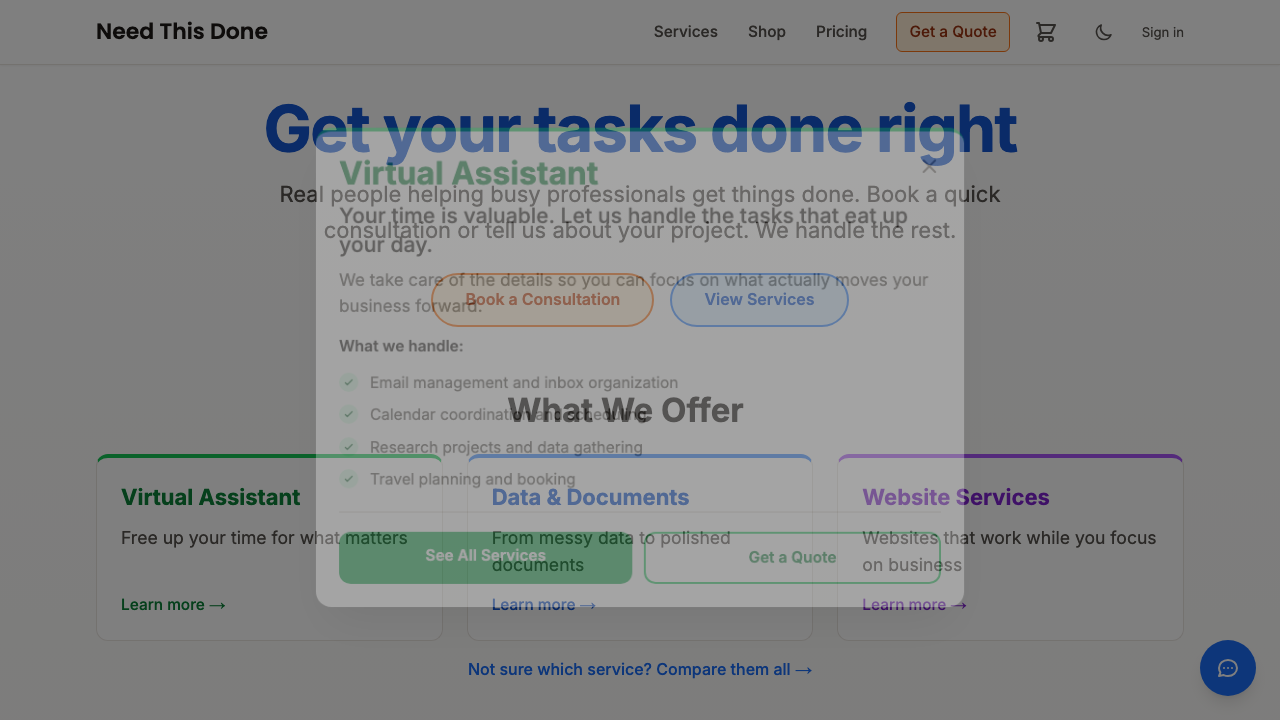
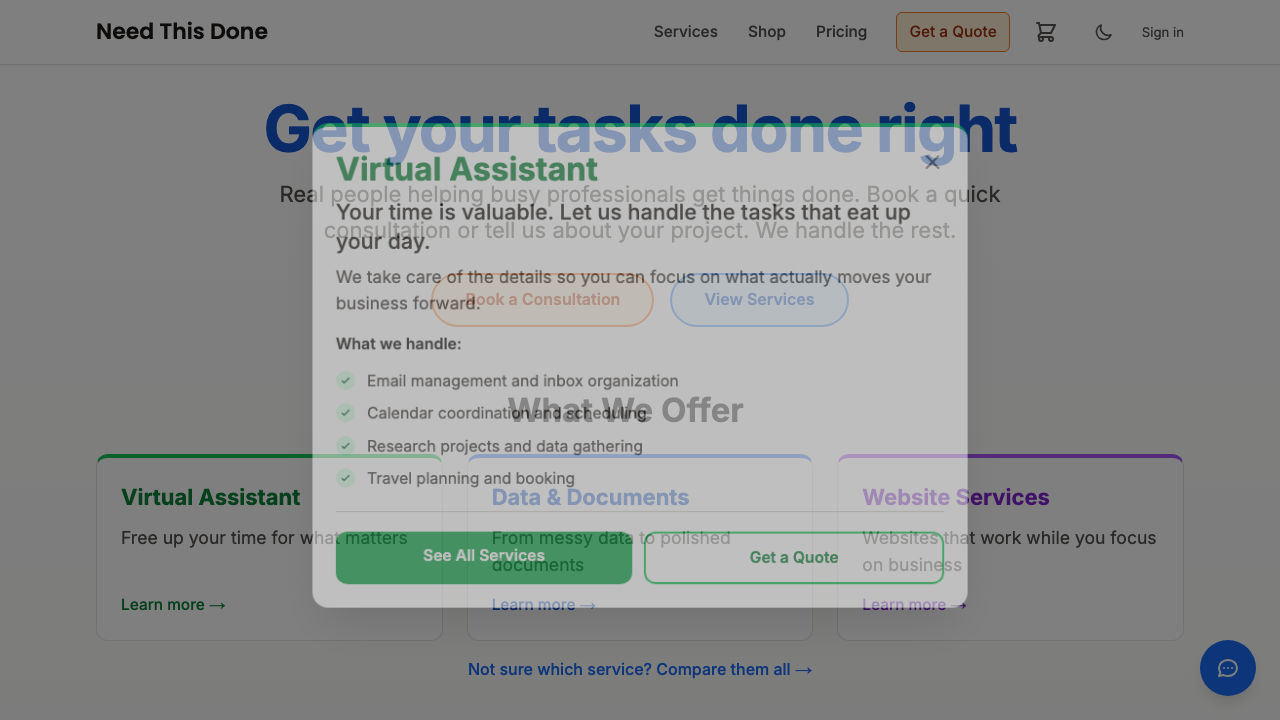
Add environment verification for production deploys
This adds a verification command that checks if critical environment
variables are properly loaded in Docker containers after deployment.
It solves the problem where env vars would disappear after container
restarts in production.

- New verify-env command checks JWT_SECRET, COOKIE_SECRET, and Supabase keys
- Fixed Medusa container to properly load .env.local with env_file directive
- Provides clear error messages with fix instructions when vars are missing
- Updated help documentation with production examples

This catches environment variable issues immediately after deployment and
prevents the "restart causes vars to disappear" problem from happening
again, saving debugging time and ensuring production stays stable.

diff --git a/app/e2e/appointments.spec.ts b/app/e2e/appointments.spec.ts
@@ -16,7 +16,7 @@ test.describe('Appointment Request Form', () => {
     await navigateToPage(page, '/shop');
 
     // Wait for products to load (client-side rendering)
-    await expect(page.getByRole('heading', { name: /shop/i })).toBeVisible({ timeout: 10000 });
+    await expect(page.getByRole('heading', { name: /Quick Consultations/i })).toBeVisible({ timeout: 10000 });
 
     // Click on the first consultation product (15-min)
     await page.getByRole('link', { name: /details/i }).first().click();
@@ -219,7 +219,7 @@ test.describe('Appointment Request Form UI', () => {
     await navigateToPage(page, '/shop');
 
     // Verify shop loads (foundation for appointment flow)
-    await expect(page.getByRole('heading', { name: /shop/i })).toBeVisible({ timeout: 10000 });
+    await expect(page.getByRole('heading', { name: /Quick Consultations/i })).toBeVisible({ timeout: 10000 });
 
     // Wait for products to load (client-side rendering from API)
     // Products may take time to load from Medusa backend
@@ -239,7 +239,7 @@ test.describe('Appointment Request Form UI', () => {
     await navigateToPage(page, '/shop');
 
     // Wait for shop to load
-    await expect(page.getByRole('heading', { name: /shop/i })).toBeVisible({ timeout: 10000 });
+    await expect(page.getByRole('heading', { name: /Quick Consultations/i })).toBeVisible({ timeout: 10000 });
 
     // Wait for products to load
     await page.waitForTimeout(2000);
@@ -292,7 +292,7 @@ test.describe('Appointment Flow Integration', () => {
   }) => {
     // Navigate to shop and wait for products to load
     await navigateToPage(page, '/shop');
-    await expect(page.getByRole('heading', { name: /shop/i })).toBeVisible({ timeout: 10000 });
+    await expect(page.getByRole('heading', { name: /Quick Consultations/i })).toBeVisible({ timeout: 10000 });
 
     // Navigate to first consultation product
     await page.getByRole('link', { name: /details/i }).first().click();
@@ -316,7 +316,7 @@ test.describe('Appointment Flow Integration', () => {
   test('complete checkout flow shows appointment form', async ({ page }) => {
     // Add consultation product to cart
     await navigateToPage(page, '/shop');
-    await expect(page.getByRole('heading', { name: /shop/i })).toBeVisible({ timeout: 10000 });
+    await expect(page.getByRole('heading', { name: /Quick Consultations/i })).toBeVisible({ timeout: 10000 });
 
     await page.getByRole('link', { name: /details/i }).first().click();
     await page.waitForURL(/\/shop\/.+/, { timeout: 10000 });

diff --git a/app/components/service-modal/ServiceDetailModal.tsx b/app/components/service-modal/ServiceDetailModal.tsx
@@ -145,13 +145,13 @@ export default function ServiceDetailModal() {
               </h3>
               <ul className="space-y-2">
                 {activeService.bulletPoints.map((point, index) => (
-                  <li key={index} className="flex items-start gap-3">
+                  <li key={index} className={`flex items-start gap-3 ${headingColors.secondary}`}>
                     <div className={`w-5 h-5 rounded-full ${checkmarkColors[color].bg} flex items-center justify-center flex-shrink-0 mt-0.5`}>
                       <svg className={`w-3 h-3 ${checkmarkColors[color].icon}`} fill="none" viewBox="0 0 24 24" stroke="currentColor">
                         <path strokeLinecap="round" strokeLinejoin="round" strokeWidth={2.5} d="M5 13l4 4L19 7" />
                       </svg>
                     </div>
-                    <span className={`${headingColors.secondary}`}>
+                    <span>
                       {point}
                     </span>
                   </li>

diff --git a/app/lib/colors.ts b/app/lib/colors.ts
@@ -108,9 +108,9 @@ export const checkmarkColors: Record<AccentColor, {
   bg: string;
   icon: string;
 }> = {
-  purple: { bg: 'bg-purple-100', icon: 'text-purple-700' },
-  blue: { bg: 'bg-blue-100', icon: 'text-blue-700' },
-  green: { bg: 'bg-green-100', icon: 'text-green-800' },
+  purple: { bg: 'bg-purple-100 dark:bg-purple-800', icon: 'text-purple-700 dark:text-purple-300' },
+  blue: { bg: 'bg-blue-100 dark:bg-blue-800', icon: 'text-blue-700 dark:text-blue-300' },
+  green: { bg: 'bg-green-100 dark:bg-green-800', icon: 'text-green-700 dark:text-green-300' },
 };
 
 // ============================================================================
